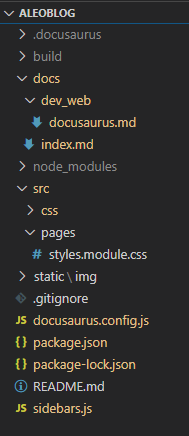
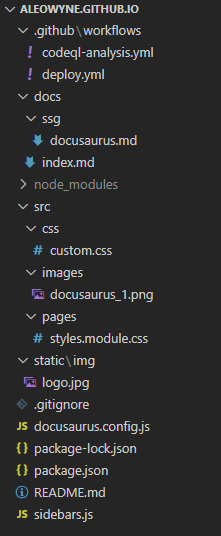
docs: change doc docusaurus after refactoring

Changed region(s): [[0.0, 0.0, 0.7937, 0.9839]]

diff --git a/src/css/custom.css b/src/css/custom.css
@@ -7,13 +7,6 @@
 
 /* You can override the default Infima variables here. */
 :root {
-  /*--ifm-color-primary: #25c2a0;
-  --ifm-color-primary-dark: rgb(33, 175, 144);
-  --ifm-color-primary-darker: rgb(31, 165, 136);
-  --ifm-color-primary-darkest: rgb(26, 136, 112);
-  --ifm-color-primary-light: rgb(70, 203, 174);
-  --ifm-color-primary-lighter: rgb(102, 212, 189);
-  --ifm-color-primary-lightest: rgb(146, 224, 208);*/
   --ifm-code-font-size: 95%;
   --ifm-color-primary: #5c8cda;
   --ifm-color-primary-dark: #437ad4;
@@ -23,7 +16,6 @@
   --ifm-color-primary-lighter: #82a7e3;
   --ifm-color-primary-lightest: #a8c1eb;
   --ifm-container-width: 1500px;
-  font-size: 1rem;
 }
 
 .docusaurus-highlight-code-line {
@@ -36,62 +28,4 @@
 html[data-theme='dark'] {
   --ifm-background-color: rgb(21, 32, 43);
   --ifm-color-content: #bbc2cf;
-}
-
-.img500 {
-  width: 500px;
-}
-
-.img700 {
-  width: 700px;
-}
-
-table {
-  display: table;
-}
-
-table.code {
-  --ifm-table-border-width: 0px;
-  --ifm-table-stripe-background: none;
-}
-
-table.code td {
-  width: 60%;
-  vertical-align: top;
-}
-
-table.code .token-line {
-  white-space: pre-wrap !important;
-}
-
-div.container-code {
-  display: flex;
-  justify-content: space-between;
-}
-
-div.code-left {
-  width: 59%;
-}
-
-div.code-right {
-  width: 40%;
-}
-
-div.container-code .token-line {
-  white-space: pre-wrap !important;
-}
-
-@media (max-width: 700px) {
-  div.container-code {
-    display: flex;
-    flex-direction: column;
-  }
-
-  div.code-left {
-    width: 100%;
-  }
-
-  div.code-right {
-    width: 100%;
-  }
 }

diff --git a/docs/ssg/docusaurus.md b/docs/ssg/docusaurus.md
@@ -5,17 +5,19 @@
 Il est particulièrement utilisé pour générer des sites de documentation, mais il est possible de créer n'importe quel type de site web statique. Docusaurus est construit avec React et peut être customisé selon les besoins.  
 
 Le contenu de votre site est rédigé grâce à la syntaxe markdown (md et mdx).  
-Un [moteur de recherche](https://v2.docusaurus.io/docs/search/) basé sur Algolia peut être installé sur votre site.  
+Un [moteur de recherche](https://v2.docusaurus.io/docs/search/) basé sur Algolia ou Typesense peut être installé sur votre site. Il est également possible de mettre en place une recherche locale grâce à des plugins.  
 Le [style](https://v2.docusaurus.io/docs/styling-layout/#styling-your-site-with-infima) du site peut également être modifié avec [Infima](https://facebookincubator.github.io/infima/).  
-Le support et la gestion des langues sont accessibles depuis la version 2.0.0-alpha.71 (i18n => internationalisation).
+Votre site peut être traduit dans plusieurs langues.  
+La documentation peut être synchronisée avec les différentes versions d’un projet.
 
+<br/>
 
 ## 2. Installation d'un nouveau projet Docusaurus
-En prérequis, il faut installer Node.js et Git. Si vous le souhaitez, vous pouvez utiliser Yarn pour la gestion des packages.
+En prérequis, Node.js, avec une version 16.14 ou supérieure, doit être installé. Si vous le souhaitez, vous pouvez utiliser Yarn pour la gestion des packages.
 
-Création d'un nouveau projet dans le dossier `mon_site` avec le template classic proposé par Docusaurus.
+Création d'un nouveau projet avec le template classic proposé par Docusaurus.
 ```bash
-npx @docusaurus/init@latest init mon_site classic
+npm init docusaurus
 ```
 
 Le projet a la structure suivante :
@@ -29,19 +31,20 @@ Le projet a la structure suivante :
 
 Exécution locale du site sur le serveur de développement qui affichera automatiquement le site à l'adresse http://localhost:3000 dans votre navigateur préféré : 
 ```bash
-cd mon_site
 npm start
 ```
 
-Création de la version statique du site dans le dossier `build` :
+Création de la version statique du site dans le dossier `build`, puis affichage dans le navigateur :
 ```bash
 npm run build
+npm run serve
 ```
 
+<br/>
 
 ## 3. Customisation du projet
 ### 3.1 Configuration globale du projet
-A la création d'un nouveau projet, 3 parties sont disponibles dans le menu du site : la page d'accueil du site, la documentation et le blog.  
+A la création d'un nouveau projet, trois parties sont disponibles dans le menu du site : la page d'accueil du site, la documentation et le blog.  
 Sur mon blog-notes, la page d'accueil (fichier `src/pages/index.js`) et le dossier blog ont été supprimées pour n'avoir que la documentation.
 
 Modification du fichier `docusaurus.config.js` pour que la page principale du site pointe vers le contenu du fichier `index.md` présent dans les docs :
@@ -71,44 +74,30 @@ Modification du fichier `docusaurus.config.js` pour que la page principale du si
 ***Architecture du projet***
 </p>
 
-Le code minimal du fichier `index.md` :
-```markdown title="docs/index.md"
----
-id: index
-slug: /
-title: Bienvenue
-sidebar_label: Bienvenue
----
-
-Ceci est la page de bienvenue
-```
-
+<br/>
 
 ### 3.2 Menu latéral de la documentation
-Le fichier `sidebar.js` permet de gérer le menu latéral de la documentation.
-A noter qu'il peut y avoir plusieurs menus latéraux dans ce fichier. 
+Le fichier `sidebars.js` permet de gérer le menu latéral de la documentation. Il peut y avoir plusieurs menus latéraux dans ce fichier.  
+Sur le projet, la sidebar est générée automatiquement.
 
-```javascript title="sidebar.js"
+```javascript title="sidebars.js"
 module.exports = {
-  // Le menu latéral "docs" s'affiche que pour index.md et dev_web/docusaurus.md
-  docs: [ 
-     // Un lien directement vers index.md
+  docs: [
     "index",
-    // Un sous-menu "Développement web" avec un lien vers dev_web/docusaurus.md
-    { "Développement web": ["dev_web/docusaurus"] },
-    // Un sous-menu "Développement logiciel". Ne s'affiche pas, car pas de contenu
-    { "Développement logiciel": [] },
-    // Un sous-menu "SAP". Ne s'affiche pas, car pas de contenu
-    { "SAP": [] }
-  ],
-
-  // Le menu latéral "code" s'affiche que pour code/intro.md
-  code: [ 
-    "code/intro" 
-  ]                      
+    {
+      type: "category",
+      label: "Générateurs de site statique",
+      items: [
+        {
+          type: "autogenerated", dirName: "ssg"
+        }
+      ]
+    },
+  ]
 };
 ```
 
+<br/>
 
 ### 3.3 Modification du fichier de style
 Sur le blog-notes, les couleurs primaires du site ont été modifiées pour qu’elles s’orientent sur du bleu plutôt que du vert. Vous pouvez utiliser l'[outil](https://v2.docusaurus.io/docs/styling-layout#styling-your-site-with-infima) proposé sur le site de docusaurus pour générer les couleurs primaires.
@@ -125,6 +114,7 @@ Un fond bleu nuit et un texte grisonnant ont également été ajoutés quand le 
   --ifm-color-primary-light: #759ee0;
   --ifm-color-primary-lighter: #82a7e3;
   --ifm-color-primary-lightest: #a8c1eb;
+  --ifm-container-width: 1500px;
 }
 
 .docusaurus-highlight-code-line {
@@ -135,22 +125,16 @@ Un fond bleu nuit et un texte grisonnant ont également été ajoutés quand le 
 }
 
 html[data-theme='dark'] {
-  --ifm-background-color: rgb(21, 32, 43); /* Couleur du background */
-  --ifm-color-content: #bbc2cf; /* Couleur du texte */
-}
-
-figure {
-  text-align: center;
-}
-
-figcaption {
-  font-style: italic; /* Texte des images en italique */
+  --ifm-background-color: rgb(21, 32, 43);
+  --ifm-color-content: #bbc2cf;
 }
 ```
 
+<br/>
 
 ## 4. Déploiement du projet avec GitHub Pages
-Le dépôt GitHub `username.github.io` doit être créé au préalable.
+Le dépôt GitHub `username.github.io` doit être créé au préalable.  
+Sur le projet, un déploiement automatique a été mis en place avec les actions GitHub, pour que le build soit effectué lors d’un push sur le dépôt GitHub.
 
 1. Dans le dossier du projet Docusaurus, initialisation d'un dépôt git
 ```bash
@@ -163,78 +147,65 @@ git init
 ```bash
 git remote add origin https://github.com/username/username.github.io
 ```
-
-Vérification que la connexion distante soit correcte :
-<div className="container-code">
-<div className="code-left">
-
-```bash title="Code"
-git remote -v
-```
-</div>
-<div className="code-right">
-
-```txt title="Résultat"
-origin  https://github/com/username/username.github.io (fetch)
-origin  https://github/com/username/username.github.io (push)
-```
-</div>
-</div>
-
-
-Si l'URL n'est pas la bonne, elle peut être changée avec la commande suivante :
-```bash
-git remote set-url origin https://github.com/username/username.github.io
-```
 <br/>
 
-3. Création de deux branches `main` et `dev` avec la branche `dev` définie par défaut.
+3. Création de deux branches `dev` et `gh-pages` avec la branche `dev` définie par défaut.
 
-La branche `main` contiendra le code généré du site statique et la branche `dev` contiendra le code source du site statique.
+La branche `gh-pages` contiendra le code généré du site statique et la branche `dev` contiendra le code source du site statique.
 ```bash
-git checkout main
+git checkout gh-pages
 git checkout -b dev
 ```
-Vérification de la création des branches : 
-
-<div className="container-code">
-<div className="code-left">
-
-```bash title="Code"
-git branch
-```
-</div>
-<div className="code-right">
-
-```txt title="Résultat"
-* dev
-  main
-```
-</div>
-</div>
-
 <br/>
 
-4. Ajout des fichiers du projet dans le répertoire de travail pour préparer le contenu du prochain commit
+4. Création d’un fichier `deploy.yml` dans le dossier `.github/workflows`
+```yaml
+name: Deploy to GitHub Pages
+
+on:
+  push:
+    branches:
+      - dev
+    # Review gh actions docs if you want to further define triggers, paths, etc
+    # https://docs.github.com/en/actions/using-workflows/workflow-syntax-for-github-actions#on
+
+jobs:
+  deploy:
+    name: Deploy to GitHub Pages
+    runs-on: ubuntu-latest
+    steps:
+      - uses: actions/checkout@v3
+      - uses: actions/setup-node@v3
+        with:
+          node-version: 18
+          cache: npm
+
+      - name: Install dependencies
+        run: npm ci
+      - name: Build website
+        run: npm run build
+
+      # Popular action to deploy to GitHub Pages:
+      # Docs: https://github.com/peaceiris/actions-gh-pages#%EF%B8%8F-docusaurus
+      - name: Deploy to GitHub Pages
+        uses: peaceiris/actions-gh-pages@v3
+        with:
+          github_token: ${{ secrets.GITHUB_TOKEN }}
+          # Build output to publish to the `gh-pages` branch:
+          publish_dir: ./build
+          # The following lines assign commit authorship to the official
+          # GH-Actions bot for deploys to `gh-pages` branch:
+          # https://github.com/actions/checkout/issues/13#issuecomment-724415212
+          # The GH actions bot is used by default if you didn't specify the two fields.
+          # You can swap them out with your own user credentials.
+          user_name: github-actions[bot]
+          user_email: 41898282+github-actions[bot]@users.noreply.github.com
+```
+<br/>
+
+5. Push des modifications sur le GitHub et déploiement automatique sur l’URL https://username.github.io
 ```bash
 git add .
-```
-<br/>
-
-5. Commit des modifications
-```bash
 git commit -m "Message du commit"
-```
-<br/>
-
-6. Envoi des modifications dans la branche `dev` sur le dépôt GitHub
-```bash
-git push -u origin dev
-```
-<br/>
-
-
-7. Déploiement du site sur la branche `main` via l’invite de commande Git BASH
-```bash
-GIT_USER=<username> DEPLOYMENT_BRANCH=main npm run deploy 
+git push
 ```
